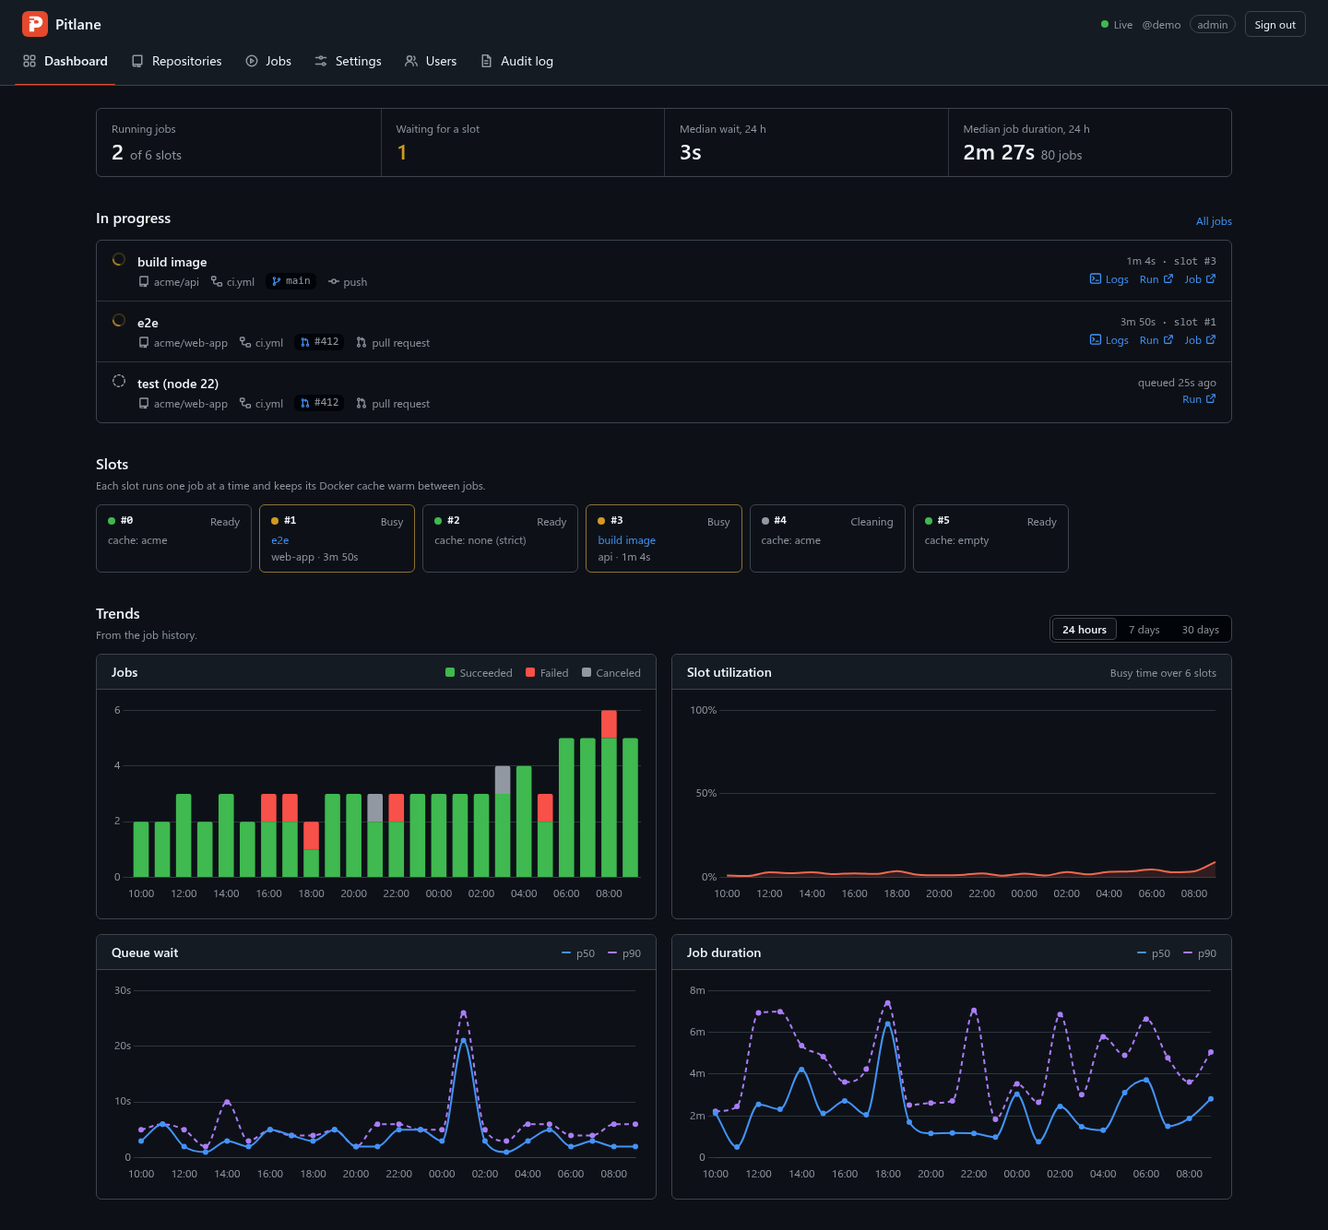
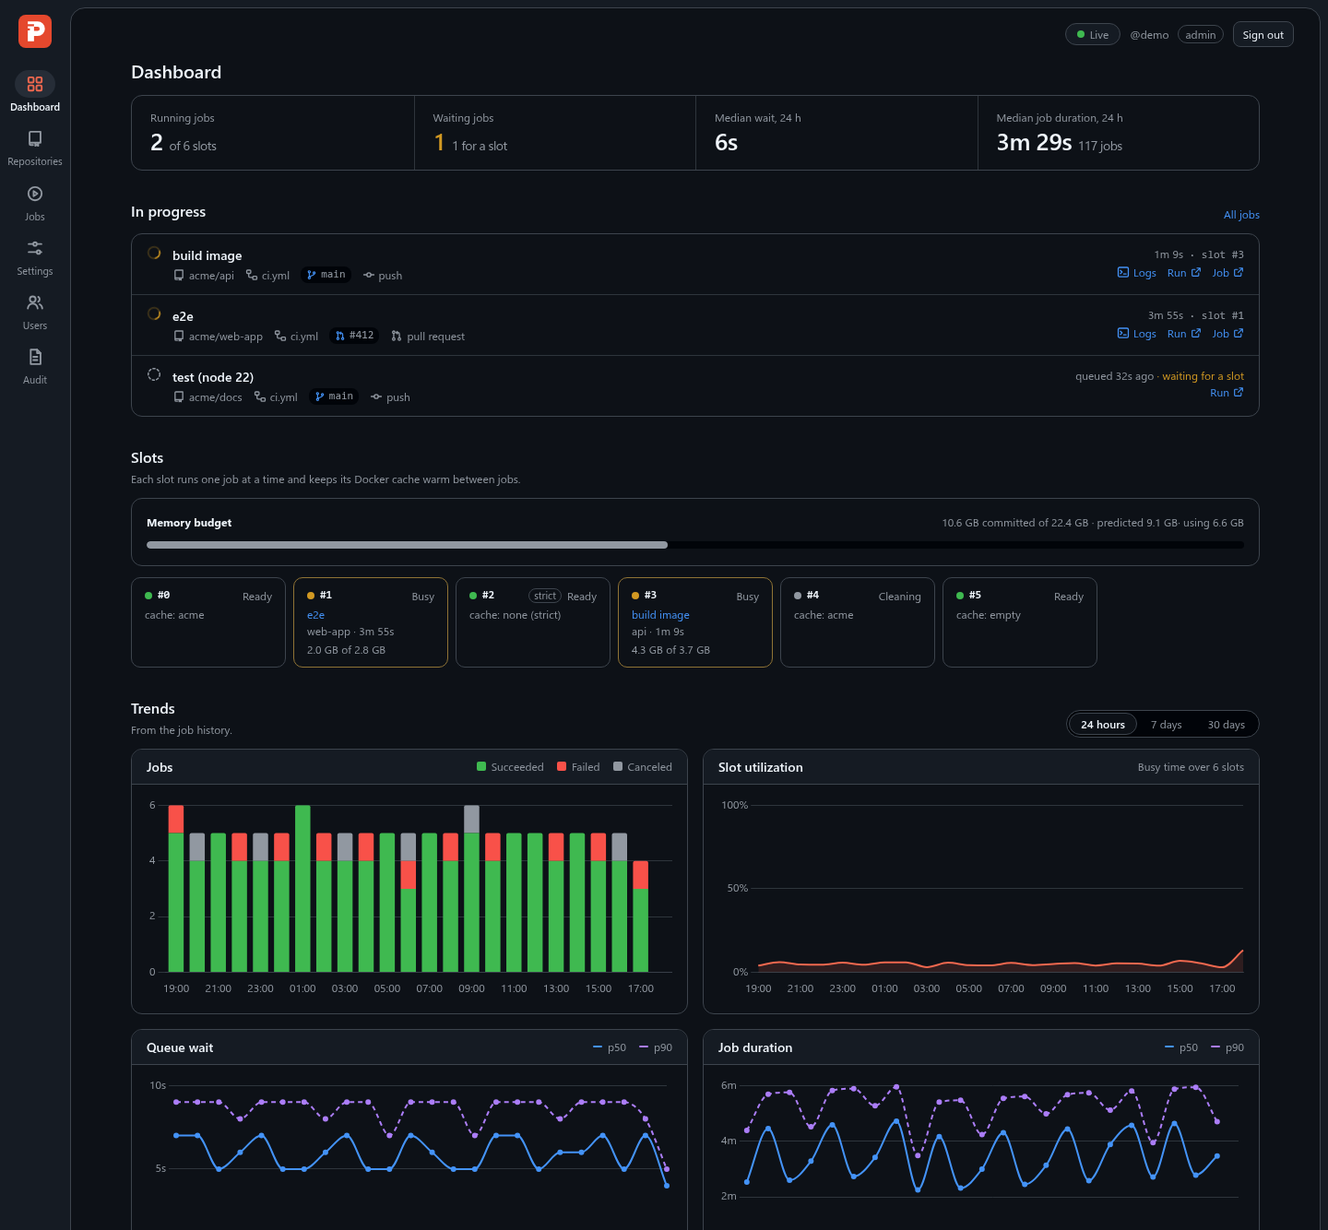
Move the web UI to a navigation rail and a rounded sheet
The top header and underline tabs give way to a 76 px navigation rail on
the canvas, with the page on a rounded sheet beside it. On a phone the
rail becomes a bottom bar. Colors stay GitHub's neutral palette with
hairline borders; the structure, pill controls and short ease-out
transitions follow Material 3.

- App.vue: rail + sheet layout, status and sign-out moved to a slim top
  bar, "Audit log" shortened to "Audit" under its icon.
- style.css: new --bg-active, radius and easing tokens; 12 px boxes,
  counters and tables; pill segmented control; hover transitions; a 240 ms
  fade-in when a page opens, off under prefers-reduced-motion.
- Dashboard: add the page title the other pages already had.
- docs/brand.md: describe the layout; README dashboard screenshots
  regenerated from demo data.

diff --git a/web/src/style.css b/web/src/style.css
@@ -1,13 +1,16 @@
 /*
- * Pitlane UI. Neutral, dense, GitHub-like product styling: grays and hairline
- * borders carry the layout, color is reserved for status and the one brand
- * accent (signal orange). Tokens follow docs/brand.md.
+ * Pitlane UI. GitHub's neutral palette and hairline borders, on a Material 3
+ * structure: a navigation rail beside a rounded sheet, soft state layers,
+ * pill controls and short ease-out transitions. Color is reserved for status
+ * and the one brand accent (signal orange). Tokens follow docs/brand.md.
  */
 :root {
   --bg: #ffffff;
   --bg-subtle: #f6f8fa;
   --bg-inset: #eff2f5;
   --bg-hover: #f3f5f7;
+  /* Selected or pressed state layer (rail item, hover on the canvas). */
+  --bg-active: #e6eaee;
   --border: #d1d9e0;
   --border-muted: #d1d9e0b3;
   /* Form control outlines: 3:1 against the canvas (WCAG 1.4.11). */
@@ -36,10 +39,13 @@
   --neutral-bg: #eff2f5;
 
   --focus: #0969da;
-  --shadow: 0 1px 0 rgba(31, 35, 40, 0.04);
+  --shadow: none;
   --shadow-overlay: 0 8px 24px rgba(66, 74, 83, 0.12);
-  --radius: 6px;
+  --radius: 8px;
+  --radius-md: 10px;
   --radius-lg: 12px;
+  --radius-xl: 16px;
+  --ease-out: cubic-bezier(0.2, 0, 0, 1);
   --sans: -apple-system, BlinkMacSystemFont, 'Segoe UI', 'Noto Sans', Helvetica, Arial, sans-serif;
   --mono: ui-monospace, SFMono-Regular, 'SF Mono', Menlo, Consolas, 'Liberation Mono', monospace;
 
@@ -58,6 +64,7 @@
     --bg-subtle: #151b23;
     --bg-inset: #010409;
     --bg-hover: #1b222c;
+    --bg-active: #262d37;
     --border: #3d444d;
     --border-muted: #3d444db3;
     --control-border: #656c76;
@@ -147,42 +154,60 @@ svg.icon { flex: none; vertical-align: text-bottom; }
 .section-head > p:only-child, .section-head > div > p { max-width: 80ch; }
 
 /* ------------------------------------------------------------ layout */
-.shell { min-height: 100vh; display: flex; flex-direction: column; }
-.header { background: var(--bg-subtle); border-bottom: 1px solid var(--border); position: sticky; top: 0; z-index: 5; }
-.header-top { display: flex; align-items: center; gap: 16px; padding: 12px 24px 4px; }
-.brand { display: inline-flex; align-items: center; gap: 8px; font-weight: 600; color: var(--text); font-size: 16px; }
-.brand:hover { text-decoration: none; }
-.who { display: flex; align-items: center; gap: 10px; margin-left: auto; font-size: 12px; }
+/* A navigation rail on the canvas, the page on a rounded sheet beside it. On a phone the rail is a bottom bar. */
+.shell { min-height: 100vh; min-height: 100dvh; display: grid; grid-template-columns: 76px minmax(0, 1fr); background: var(--bg-subtle); }
+.rail { position: sticky; top: 0; height: 100vh; height: 100dvh; display: flex; flex-direction: column; align-items: center; padding: 16px 0; }
+.rail-brand { display: block; margin-bottom: 20px; line-height: 0; border-radius: var(--radius-md); }
+.rail-nav { display: flex; flex-direction: column; align-items: center; gap: 2px; min-height: 0; overflow-y: auto; scrollbar-width: none; }
+.rail-nav a {
+  display: flex; flex-direction: column; align-items: center; gap: 3px; width: 68px; padding: 4px 0 6px;
+  color: var(--muted); font-size: 11px; font-weight: 500; line-height: 1.3; white-space: nowrap; border-radius: var(--radius-md);
+}
+.rail-nav a:hover { color: var(--text); text-decoration: none; }
+.rail-icon { display: grid; place-items: center; width: 44px; height: 30px; border-radius: 15px; transition: background-color 0.2s var(--ease-out), color 0.2s var(--ease-out); }
+.rail-nav a:hover .rail-icon { background: var(--bg-active); }
+.rail-nav a.active { color: var(--text); font-weight: 600; }
+.rail-nav a.active .rail-icon { background: var(--bg-active); color: var(--brand-fg); }
+.sheet {
+  display: flex; flex-direction: column; min-width: 0; margin: 8px 8px 8px 0; min-height: calc(100vh - 16px); min-height: calc(100dvh - 16px);
+  background: var(--bg); border: 1px solid var(--border); border-radius: var(--radius-xl);
+}
+.topbar { display: flex; align-items: center; justify-content: flex-end; gap: 12px; padding: 14px 28px 0; }
+.topbar-brand { display: none; align-items: center; gap: 8px; font-size: 16px; font-weight: 600; color: var(--text); }
+.topbar-brand:hover { text-decoration: none; }
+.who { display: flex; align-items: center; gap: 10px; font-size: 12px; }
 .live { display: inline-flex; align-items: center; gap: 6px; color: var(--muted); }
+.who .live { height: 24px; padding: 0 12px; background: var(--bg-subtle); border: 1px solid var(--border); border-radius: 999px; }
 .dot { width: 8px; height: 8px; border-radius: 50%; display: inline-block; flex: none; background: var(--neutral); }
 .dot.ok { background: var(--ok); }
 .dot.off { background: var(--warn); }
 .dot.busy { background: var(--running); }
 .dot.error { background: var(--error); }
-.underline-nav { display: flex; gap: 8px; padding: 0 16px; overflow-x: auto; scrollbar-width: none; }
-.underline-nav a {
-  position: relative; display: inline-flex; align-items: center; gap: 8px; padding: 8px; margin: 4px 0 8px;
-  color: var(--text); border-radius: var(--radius); white-space: nowrap; line-height: 1.43;
-}
-.underline-nav a .icon { color: var(--muted); }
-.underline-nav a:hover { background: var(--bg-hover); text-decoration: none; }
-.underline-nav a:focus-visible { outline-offset: -2px; border-radius: var(--radius); }
-.underline-nav a.active { font-weight: 600; }
-.underline-nav a.active::after {
-  content: ''; position: absolute; left: 0; right: 0; bottom: -9px; height: 2px; border-radius: 2px; background: var(--brand);
-}
-.content { width: 100%; max-width: 1280px; margin: 0 auto; padding: 24px 24px 48px; flex: 1; }
-.foot { display: flex; justify-content: center; gap: 6px; padding: 24px 16px 32px; font-size: 12px; border-top: 1px solid var(--border-muted); }
+.content { width: 100%; max-width: 1280px; margin: 0 auto; padding: 12px 28px 48px; flex: 1; }
+/* The page eases in on every navigation: its root element is new each time. */
+@keyframes enter { from { opacity: 0; transform: translateY(6px); } }
+.content > * { animation: enter 0.24s var(--ease-out) backwards; }
+.foot { display: flex; justify-content: center; gap: 6px; padding: 24px 16px 28px; font-size: 12px; border-top: 1px solid var(--border-muted); }
 .foot a { color: var(--muted); }
 @media (max-width: 700px) {
-  .header-top { padding: 10px 16px 2px; }
+  .shell { display: block; background: var(--bg); }
+  .rail {
+    position: fixed; z-index: 20; inset: auto 0 0 0; height: auto; flex-direction: row; padding: 6px 8px calc(6px + env(safe-area-inset-bottom));
+    background: var(--bg-subtle); border-top: 1px solid var(--border);
+  }
+  .rail-brand { display: none; }
+  .rail-nav { flex-direction: row; justify-content: space-around; gap: 0; width: 100%; overflow: auto hidden; }
+  .rail-nav a { flex: 1 0 64px; width: auto; font-size: 10.5px; }
+  .sheet { margin: 0; min-height: 100vh; min-height: 100dvh; border: 0; border-radius: 0; padding-bottom: 72px; }
+  .topbar { justify-content: space-between; padding: 10px 16px 0; }
+  .topbar-brand { display: inline-flex; }
   .who .login { display: none; }
-  .content { padding: 16px 16px 40px; }
+  .content { padding: 12px 16px 32px; }
 }
 
 /* minmax(0, 1fr): the column must not grow to the widest code block and push the card off a phone screen. */
 .center-page { min-height: 100vh; display: grid; grid-template-columns: minmax(0, 1fr); place-items: center; padding: 24px 16px; background: var(--bg-subtle); }
-.card { background: var(--bg); border: 1px solid var(--border); border-radius: var(--radius); padding: 16px; }
+.card { background: var(--bg); border: 1px solid var(--border); border-radius: var(--radius-lg); padding: 16px; }
 .card.narrow { width: 100%; max-width: 480px; padding: 24px; }
 .brand-big { display: flex; align-items: center; gap: 10px; margin-bottom: 4px; font-size: 20px; }
 
@@ -208,7 +233,7 @@ button, .button {
   display: inline-flex; align-items: center; justify-content: center; gap: 6px; height: 32px;
   padding: 0 12px; border-radius: var(--radius); border: 1px solid var(--border);
   background: var(--bg-subtle); color: var(--text); font-size: 14px; font-weight: 500; cursor: pointer; white-space: nowrap;
-  box-shadow: var(--shadow); transition: background-color 0.12s ease, border-color 0.12s ease;
+  box-shadow: var(--shadow); transition: background-color 0.15s var(--ease-out), border-color 0.15s var(--ease-out), color 0.15s var(--ease-out);
 }
 button:hover:not(:disabled), .button:hover { background: var(--bg-hover); text-decoration: none; }
 button:active:not(:disabled) { background: var(--bg-inset); }
@@ -226,8 +251,8 @@ button.danger:hover:not(:disabled) { background: var(--error-bg); }
 .chip.copied { color: var(--ok); border-color: color-mix(in srgb, var(--ok) 45%, transparent); }
 
 /* Segmented control: the selected option is raised out of an inset track. */
-.seg { display: inline-flex; gap: 2px; padding: 2px; background: var(--bg-inset); border: 1px solid var(--border); border-radius: var(--radius); }
-.seg button { height: 24px; border: 1px solid transparent; border-radius: 4px; box-shadow: none; background: transparent; color: var(--muted); font-size: 12px; padding: 0 10px; }
+.seg { display: inline-flex; gap: 2px; padding: 2px; background: var(--bg-inset); border: 1px solid var(--border); border-radius: 999px; }
+.seg button { height: 24px; border: 1px solid transparent; border-radius: 999px; box-shadow: none; background: transparent; color: var(--muted); font-size: 12px; padding: 0 12px; }
 .seg button:hover:not(:disabled) { background: transparent; color: var(--text); }
 .seg button.active { background: var(--bg); border-color: var(--border); color: var(--text); font-weight: 600; }
 .seg button:focus-visible { outline-offset: 0; }
@@ -241,12 +266,12 @@ button.danger:hover:not(:disabled) { background: var(--error-bg); }
 .switch input:focus-visible + span { outline: 2px solid var(--focus); outline-offset: 2px; }
 .switch input:disabled + span { opacity: 0.5; cursor: not-allowed; }
 
-.alert { padding: 12px 16px; border-radius: var(--radius); border: 1px solid; }
+.alert { padding: 12px 16px; border-radius: var(--radius-lg); border: 1px solid; }
 .alert.error { background: var(--error-bg); border-color: color-mix(in srgb, var(--error) 40%, transparent); }
 .alert.warn { background: var(--warn-bg); border-color: color-mix(in srgb, var(--warn) 40%, transparent); }
 .alert.ok { background: var(--ok-bg); border-color: color-mix(in srgb, var(--ok) 40%, transparent); }
 .alert.info { background: var(--info-bg); border-color: color-mix(in srgb, var(--link) 30%, transparent); }
-pre.code { background: var(--bg-inset); padding: 8px 12px; border-radius: var(--radius); margin: 0; overflow-x: auto; }
+pre.code { background: var(--bg-inset); padding: 8px 12px; border-radius: var(--radius-md); margin: 0; overflow-x: auto; }
 
 .steps { display: flex; gap: 8px; padding: 0; margin: 12px 0 20px; list-style: none; counter-reset: s; font-size: 12px; }
 .steps li { flex: 1; counter-increment: s; color: var(--muted); border-top: 2px solid var(--border); padding-top: 6px; }
@@ -276,22 +301,23 @@ pre.code { background: var(--bg-inset); padding: 8px 12px; border-radius: var(--
 .spin { animation: spin 1.2s linear infinite; transform-origin: 50% 50%; }
 @media (prefers-reduced-motion: reduce) {
   .spin { animation: none; }
-  button, .button, .switch span, .switch span::before { transition: none; }
+  button, .button, .switch span, .switch span::before, .rail-icon, .slot, .bar div, .table td { transition: none; }
+  .content > * { animation: none; }
 }
 
 /* ------------------------------------------------------------ boxes */
-.box { background: var(--bg); border: 1px solid var(--border); border-radius: var(--radius); }
-.box-head { display: flex; align-items: center; justify-content: space-between; gap: 12px; flex-wrap: wrap; padding: 12px 16px; background: var(--bg-subtle); border-bottom: 1px solid var(--border); border-radius: var(--radius) var(--radius) 0 0; }
+.box { background: var(--bg); border: 1px solid var(--border); border-radius: var(--radius-lg); }
+.box-head { display: flex; align-items: center; justify-content: space-between; gap: 12px; flex-wrap: wrap; padding: 12px 16px; background: var(--bg-subtle); border-bottom: 1px solid var(--border); border-radius: calc(var(--radius-lg) - 1px) calc(var(--radius-lg) - 1px) 0 0; }
 .box-body { padding: 16px; }
 .box-row { padding: 12px 16px; border-top: 1px solid var(--border-muted); }
 .box-row:first-child { border-top: 0; }
 
 /* ------------------------------------------------------------ dashboard */
-.counters { display: grid; grid-template-columns: repeat(4, 1fr); border: 1px solid var(--border); border-radius: var(--radius); background: var(--bg); }
-.counter { padding: 12px 16px; border-left: 1px solid var(--border-muted); }
+.counters { display: grid; grid-template-columns: repeat(4, 1fr); border: 1px solid var(--border); border-radius: var(--radius-lg); background: var(--bg); }
+.counter { padding: 14px 20px; border-left: 1px solid var(--border-muted); }
 .counter:first-child { border-left: 0; }
 .counter-label { color: var(--muted); font-size: 12px; }
-.counter-value { font-size: 24px; font-weight: 600; line-height: 1.3; font-variant-numeric: tabular-nums; }
+.counter-value { font-size: 26px; font-weight: 600; letter-spacing: -0.02em; line-height: 1.3; font-variant-numeric: tabular-nums; }
 .counter-value .of { font-size: 14px; font-weight: 400; color: var(--muted); }
 .counter-value.warn { color: var(--warn); }
 @media (max-width: 900px) {
@@ -301,7 +327,8 @@ pre.code { background: var(--bg-inset); padding: 8px 12px; border-radius: var(--
 }
 
 .slots { display: grid; grid-template-columns: repeat(auto-fill, minmax(150px, 1fr)); gap: 8px; }
-.slot { background: var(--bg); border: 1px solid var(--border); border-radius: var(--radius); padding: 8px 12px; min-height: 64px; }
+.slot { background: var(--bg); border: 1px solid var(--border); border-radius: var(--radius-md); padding: 10px 14px; min-height: 64px; transition: background-color 0.2s var(--ease-out), border-color 0.2s var(--ease-out); }
+.slot:hover { background: var(--bg-hover); }
 .slot.busy { border-color: color-mix(in srgb, var(--running) 55%, var(--border)); }
 .slot.error { border-color: color-mix(in srgb, var(--error) 55%, var(--border)); }
 .slot-head { display: flex; align-items: center; gap: 6px; margin-bottom: 2px; font-size: 12px; }
@@ -339,12 +366,12 @@ pre.code { background: var(--bg-inset); padding: 8px 12px; border-radius: var(--
 @media (max-width: 700px) { .host { grid-template-columns: 1fr; } }
 .meter-head { display: flex; justify-content: space-between; font-size: 12px; }
 .bar { height: 8px; background: var(--bg-inset); border-radius: 4px; overflow: hidden; margin: 6px 0 2px; }
-.bar div { height: 100%; background: var(--neutral); border-radius: 4px; }
+.bar div { height: 100%; background: var(--neutral); border-radius: 4px; transition: width 0.6s var(--ease-out); }
 .bar div.warn { background: var(--warn); }
 .bar div.error { background: var(--error); }
 
 /* ------------------------------------------------------------ tables */
-.table-wrap { position: relative; overflow-x: auto; background: var(--bg); border: 1px solid var(--border); border-radius: var(--radius); }
+.table-wrap { position: relative; overflow-x: auto; background: var(--bg); border: 1px solid var(--border); border-radius: var(--radius-lg); }
 .table { width: 100%; border-collapse: collapse; }
 .table caption { text-align: left; }
 .table th {
@@ -352,6 +379,7 @@ pre.code { background: var(--bg-inset); padding: 8px 12px; border-radius: var(--
   background: var(--bg-subtle); border-bottom: 1px solid var(--border); white-space: nowrap;
 }
 .table td { padding: 8px 12px; border-bottom: 1px solid var(--border-muted); vertical-align: middle; font-variant-numeric: tabular-nums; }
+.table td { transition: background-color 0.15s ease; }
 .table tbody tr:hover td { background: var(--bg-hover); }
 .table tr:last-child td { border-bottom: 0; }
 .table .actions { text-align: right; white-space: nowrap; }
@@ -391,7 +419,7 @@ pre.code { background: var(--bg-inset); padding: 8px 12px; border-radius: var(--
 
 /* ------------------------------------------------------------ logs */
 pre.logs {
-  background: #0d1117; color: #e6edf3; padding: 12px 16px; border-radius: var(--radius); margin: 0; border: 1px solid var(--border);
+  background: #0d1117; color: #e6edf3; padding: 12px 16px; border-radius: var(--radius-lg); margin: 0; border: 1px solid var(--border);
   height: calc(100vh - 340px); min-height: 320px; overflow: auto; white-space: pre-wrap; word-break: break-word; font-size: 12px; line-height: 1.6;
 }
 .settings { width: 100%; max-width: 820px; margin-inline: auto; }
@@ -405,7 +433,7 @@ pre.logs {
   position: relative; height: auto; border: 0; border-radius: var(--radius); background: transparent; box-shadow: none;
   color: var(--text); padding: 6px 8px; margin-bottom: 6px;
 }
-.tabs button:hover:not(:disabled) { background: var(--bg-hover); }
+.tabs button:hover:not(:disabled) { background: var(--bg-active); }
 .tabs button.active { font-weight: 600; }
 .tabs button.active::after { content: ''; position: absolute; left: 0; right: 0; bottom: -7px; height: 2px; border-radius: 2px; background: var(--brand); }
 .sr-only { position: absolute; width: 1px; height: 1px; margin: -1px; padding: 0; border: 0; overflow: hidden; clip-path: inset(50%); white-space: nowrap; }

diff --git a/web/src/App.vue b/web/src/App.vue
@@ -53,13 +53,14 @@ async function logout() {
   await refresh()
 }
 
-const allNav: { to: string; label: string; icon: string; role?: Role }[] = [
+// `short` is the rail label when the full one does not fit under an icon.
+const allNav: { to: string; label: string; short?: string; icon: string; role?: Role }[] = [
   { to: '/', label: 'Dashboard', icon: 'dashboard' },
   { to: '/targets', label: 'Repositories', icon: 'repo' },
   { to: '/jobs', label: 'Jobs', icon: 'jobs' },
   { to: '/settings', label: 'Settings', icon: 'settings', role: 'operator' },
   { to: '/users', label: 'Users', icon: 'users', role: 'admin' },
-  { to: '/audit', label: 'Audit log', icon: 'audit', role: 'admin' },
+  { to: '/audit', label: 'Audit log', short: 'Audit', icon: 'audit', role: 'admin' },
 ]
 const nav = computed(() => allNav.filter((n) => !n.role || can(n.role)))
 
@@ -84,9 +85,18 @@ const role = computed(() => status.value?.role || '')
   <RouterView v-else-if="route.meta.bare" @refresh="refresh" />
   <div v-else class="shell">
     <a class="skip" href="#main">Skip to content</a>
-    <header class="header">
-      <div class="header-top">
-        <RouterLink to="/" class="brand"><BrandMark :size="28" /> Pitlane</RouterLink>
+    <aside class="rail">
+      <RouterLink to="/" class="rail-brand" aria-label="Pitlane"><BrandMark :size="36" /></RouterLink>
+      <nav ref="navEl" class="rail-nav" aria-label="Main">
+        <RouterLink v-for="n in nav" :key="n.to" :to="n.to" :class="{ active: isActive(n.to) }"
+          :aria-label="n.label" :aria-current="isActive(n.to) ? 'page' : undefined">
+          <span class="rail-icon"><Icon :name="n.icon" :size="20" /></span>{{ n.short ?? n.label }}
+        </RouterLink>
+      </nav>
+    </aside>
+    <div class="sheet">
+      <header class="topbar">
+        <RouterLink to="/" class="topbar-brand"><BrandMark :size="24" /> Pitlane</RouterLink>
         <div class="who">
           <span class="live" role="status" :title="live.connected ? 'Live updates connected' : 'Reconnecting…'">
             <span class="dot" :class="live.connected ? 'ok' : 'off'" />{{ live.connected ? 'Live' : 'Reconnecting…' }}
@@ -95,21 +105,15 @@ const role = computed(() => status.value?.role || '')
           <span v-if="role" class="badge muted" :title="roleHelp[role]">{{ role }}</span>
           <button type="button" class="small" @click="logout">Sign out</button>
         </div>
-      </div>
-      <nav ref="navEl" class="underline-nav" aria-label="Main">
-        <RouterLink v-for="n in nav" :key="n.to" :to="n.to" :class="{ active: isActive(n.to) }"
-          :aria-current="isActive(n.to) ? 'page' : undefined">
-          <Icon :name="n.icon" />{{ n.label }}
-        </RouterLink>
-      </nav>
-    </header>
-    <main id="main" class="content" tabindex="-1">
-      <RouterView />
-    </main>
-    <footer class="foot muted">
-      <span>Pitlane {{ status?.version }}</span><span>·</span>
-      <a href="https://github.com/TuroYT/pitlane" target="_blank" rel="noopener">Source</a><span>·</span>
-      <a href="https://github.com/TuroYT/pitlane/tree/main/docs" target="_blank" rel="noopener">Docs</a>
-    </footer>
+      </header>
+      <main id="main" class="content" tabindex="-1">
+        <RouterView />
+      </main>
+      <footer class="foot muted">
+        <span>Pitlane {{ status?.version }}</span><span>·</span>
+        <a href="https://github.com/TuroYT/pitlane" target="_blank" rel="noopener">Source</a><span>·</span>
+        <a href="https://github.com/TuroYT/pitlane/tree/main/docs" target="_blank" rel="noopener">Docs</a>
+      </footer>
+    </div>
   </div>
 </template>

diff --git a/web/src/views/Dashboard.vue b/web/src/views/Dashboard.vue
@@ -121,6 +121,7 @@ function level(p: number) {
   <p v-if="!snap" class="muted" role="status">Connecting to Pitlane…</p>
   <div v-else class="stack-lg">
     <div class="stack">
+      <h1>Dashboard</h1>
       <p v-for="t in problems" :key="t.id" class="alert error">
         <strong>{{ t.kind === 'repo' ? `${t.owner}/${t.repo}` : t.owner }}</strong>:
         {{ t.status === 'no-credentials' ? 'no GitHub credentials. Finish the setup or install the App on this account.' : t.error }}

diff --git a/docs/brand.md b/docs/brand.md
@@ -39,10 +39,10 @@ lockups come from [`assets/src/gen_assets.py`](assets/src/gen_assets.py).
 | Token | Hex | Use |
 | --- | --- | --- |
 | Signal orange | `#E5482D` | The logo tile. Large text and graphics only (3.96:1 on white). |
-| Orange emphasis | `#CF3F22` | Primary buttons with white text (4.79:1), active tab underline in light mode. |
+| Orange emphasis | `#CF3F22` | Primary buttons with white text (4.79:1), the active navigation item's icon in light mode. |
 | Orange bright | `#F0684F` | Accents on dark backgrounds (6.13:1 on `#0d1117`). |
 
-Everything else is neutral and functional, in the spirit of GitHub's own UI:
+Everything else is neutral and functional, in the spirit of GitHub's own UI (hairline borders, no shadows):
 
 | Role | Light | Dark |
 | --- | --- | --- |
@@ -61,6 +61,18 @@ Everything else is neutral and functional, in the spirit of GitHub's own UI:
 Orange is the brand, never a status: success is green, failure is red, a job in
 progress is amber, like a workflow run on GitHub. In charts, Pitlane is orange
 and GitHub-hosted runners are gray; percentiles are blue (p50) and purple (p90).
+
+## Layout
+
+The web UI has a Material 3 structure on top of those GitHub-like tokens:
+
+- A navigation rail (76 px) sits on the canvas, with the page on a white
+  rounded sheet beside it. On a phone the rail becomes a bottom bar.
+- Boxes, tables and counters have a 1 px border and 12 px corners. The sheet has
+  16 px corners. Buttons and fields keep 8 px, and the segmented control is a pill.
+- Hover and selected states use a flat tint (`--bg-hover`, `--bg-active`), not a
+  shadow. Transitions are 150-240 ms with an ease-out curve, and are off under
+  `prefers-reduced-motion`.
 
 ## Typography
 
